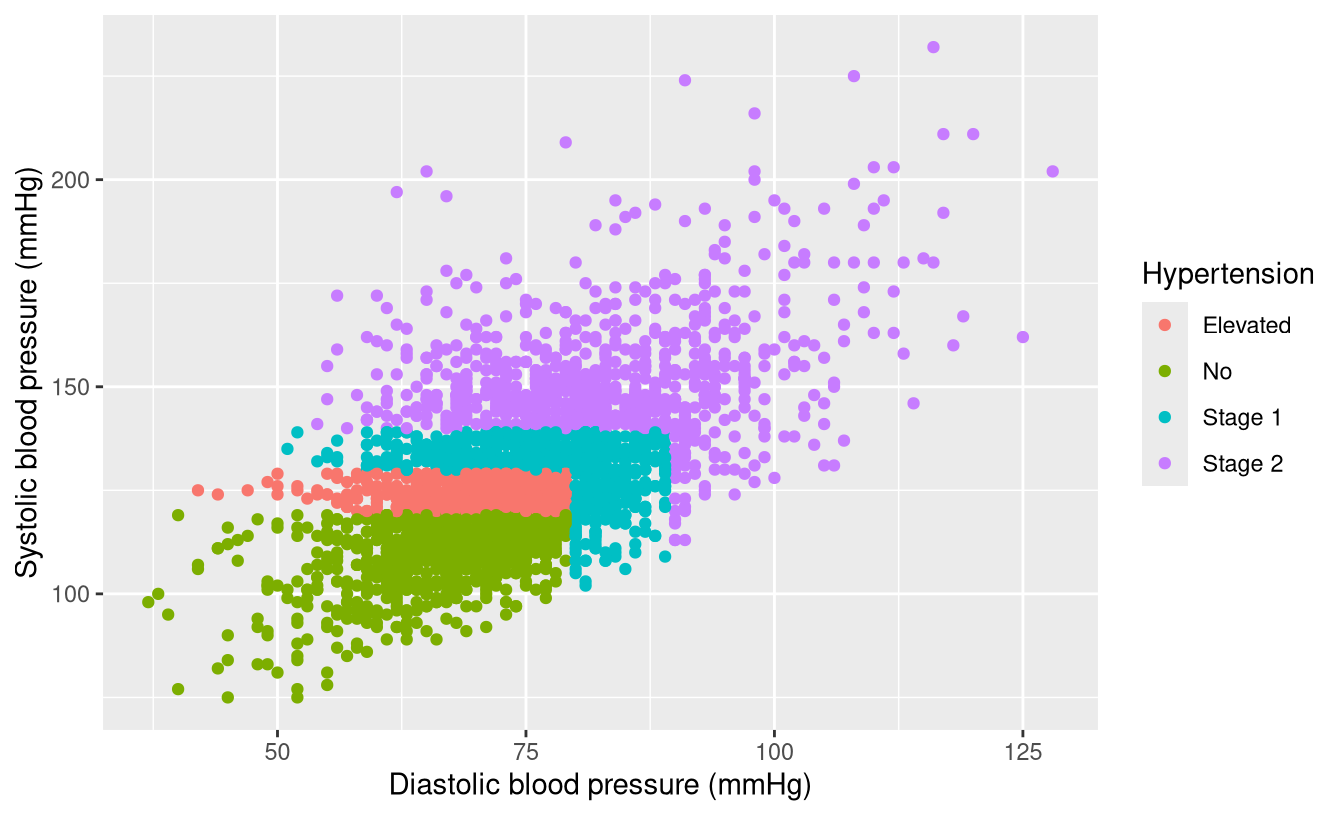
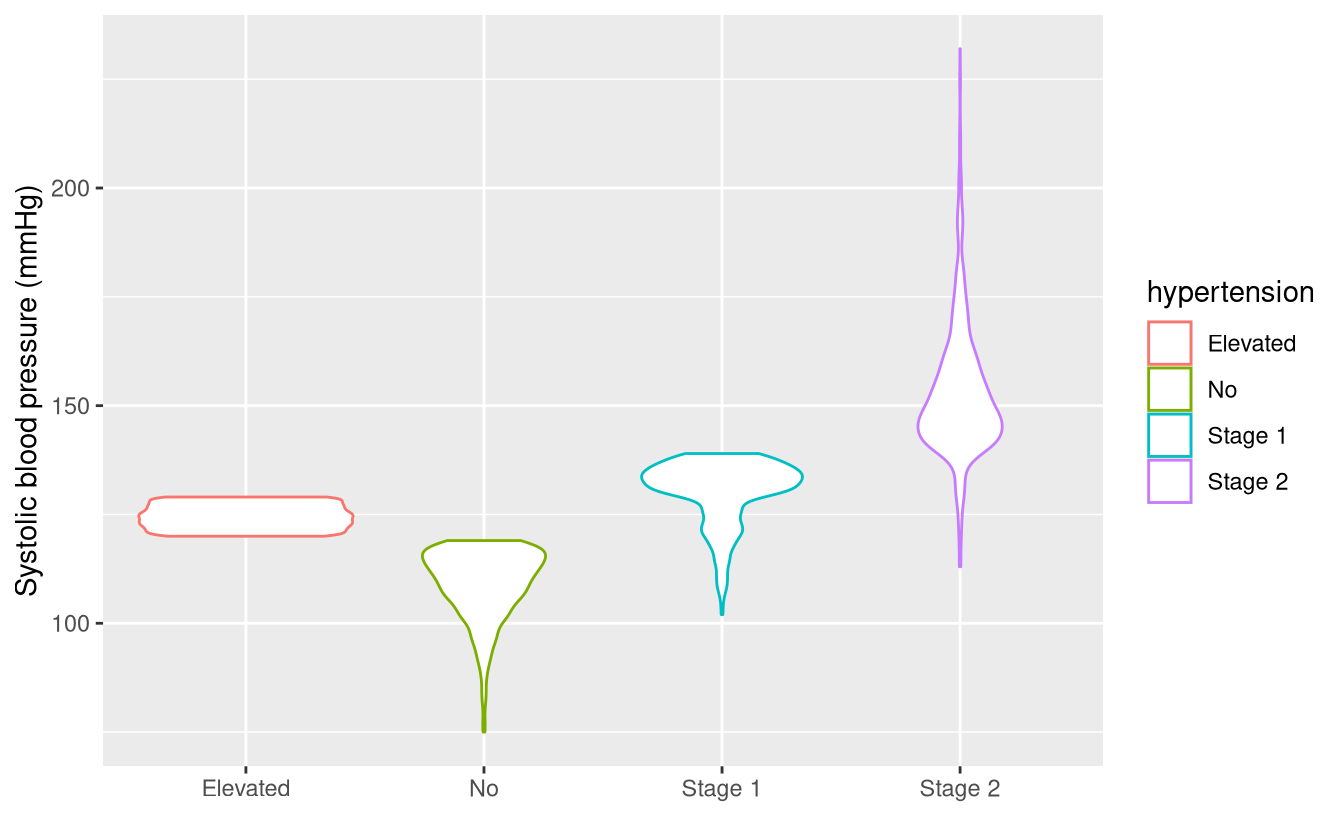
Built site for gh-pages

diff --git a/session_6/homework_6.html b/session_6/homework_6.html
@@ -242,11 +242,11 @@ pre > code.sourceCode > span > a:first-child::before { text-decoration: underlin
 <div class="cell">
 <div class="code-copy-outer-scaffold"><div class="sourceCode cell-code" id="cb4"><pre class="sourceCode r code-with-copy"><code class="sourceCode r"><span id="cb4-1"><a href="#cb4-1" aria-hidden="true" tabindex="-1"></a><span class="fu">ggplot</span>(</span>
 <span id="cb4-2"><a href="#cb4-2" aria-hidden="true" tabindex="-1"></a>   <span class="fu">subset</span>(nhanes, ridageyr <span class="sc">&gt;=</span> <span class="dv">60</span> <span class="sc">&amp;</span> <span class="sc">!</span><span class="fu">is.na</span>(hypertension)),</span>
-<span id="cb4-3"><a href="#cb4-3" aria-hidden="true" tabindex="-1"></a>   <span class="fu">aes</span>(<span class="at">x =</span> bpxodi1, <span class="at">y =</span> bpxosy1, <span class="at">color =</span> hypertension)</span>
+<span id="cb4-3"><a href="#cb4-3" aria-hidden="true" tabindex="-1"></a>   <span class="fu">aes</span>(<span class="at">x =</span> hypertension, <span class="at">y =</span> bpxosy1, <span class="at">color =</span> hypertension)</span>
 <span id="cb4-4"><a href="#cb4-4" aria-hidden="true" tabindex="-1"></a>) <span class="sc">+</span></span>
-<span id="cb4-5"><a href="#cb4-5" aria-hidden="true" tabindex="-1"></a>   <span class="fu">geom_point</span>() <span class="sc">+</span></span>
-<span id="cb4-6"><a href="#cb4-6" aria-hidden="true" tabindex="-1"></a>   <span class="fu">labs</span>(<span class="at">x =</span> <span class="st">'Diastolic blood pressure (mmHg)'</span>, <span class="at">y =</span> <span class="st">'Systolic blood pressure (mmHg)'</span>, <span class="at">color =</span></span>
-<span id="cb4-7"><a href="#cb4-7" aria-hidden="true" tabindex="-1"></a>           <span class="st">'Hypertension'</span>)</span></code></pre></div><button title="Copy to Clipboard" class="code-copy-button"><i class="bi"></i></button></div>
+<span id="cb4-5"><a href="#cb4-5" aria-hidden="true" tabindex="-1"></a>   <span class="fu">geom_violin</span>() <span class="sc">+</span></span>
+<span id="cb4-6"><a href="#cb4-6" aria-hidden="true" tabindex="-1"></a>   <span class="fu">labs</span>(<span class="at">y =</span> <span class="st">'Systolic blood pressure (mmHg)'</span>) <span class="sc">+</span></span>
+<span id="cb4-7"><a href="#cb4-7" aria-hidden="true" tabindex="-1"></a>   <span class="fu">theme</span>(<span class="at">axis.title.x =</span> <span class="fu">element_blank</span>())</span></code></pre></div><button title="Copy to Clipboard" class="code-copy-button"><i class="bi"></i></button></div>
 <div class="cell-output-display">
 <div>
 <figure class="figure">
@@ -256,6 +256,19 @@ pre > code.sourceCode > span > a:first-child::before { text-decoration: underlin
 </div>
 </div>
 </div>
+</div>
+</div>
+<div class="indent callout callout-style-default callout-note callout-titled">
+<div class="callout-header d-flex align-content-center">
+<div class="callout-icon-container">
+<i class="callout-icon"></i>
+</div>
+<div class="callout-title-container flex-fill">
+Note
+</div>
+</div>
+<div class="callout-body-container callout-body">
+<p>The last line here is optional and removes the label on the <em>x</em> axis.</p>
 </div>
 </div>
 <ol start="4" type="1">
@@ -294,7 +307,7 @@ Note
 </div>
 </div>
 <div class="indent callout callout-style-default callout-tip callout-titled" title="Solution">
-<div class="callout-header d-flex align-content-center collapsed" data-bs-toggle="collapse" data-bs-target=".callout-6-contents" aria-controls="callout-6" aria-expanded="false" aria-label="Toggle callout">
+<div class="callout-header d-flex align-content-center collapsed" data-bs-toggle="collapse" data-bs-target=".callout-7-contents" aria-controls="callout-7" aria-expanded="false" aria-label="Toggle callout">
 <div class="callout-icon-container">
 <i class="callout-icon"></i>
 </div>
@@ -303,7 +316,7 @@ Note
 </div>
 <div class="callout-btn-toggle d-inline-block border-0 py-1 ps-1 pe-0 float-end"><i class="callout-toggle"></i></div>
 </div>
-<div id="callout-6" class="callout-6-contents callout-collapse collapse">
+<div id="callout-7" class="callout-7-contents callout-collapse collapse">
 <div class="callout-body-container callout-body">
 <div class="cell">
 <div class="code-copy-outer-scaffold"><div class="sourceCode cell-code" id="cb6"><pre class="sourceCode r code-with-copy"><code class="sourceCode r"><span id="cb6-1"><a href="#cb6-1" aria-hidden="true" tabindex="-1"></a><span class="fu">table</span>(nhanes<span class="sc">$</span>ltpa_vigorous, <span class="at">useNA =</span> <span class="st">'always'</span>)</span>
@@ -322,7 +335,7 @@ Note
 <li>Use <code>table()</code> with <code>is.na()</code> to check how many people are missing a measurement of height (<code>bmxht</code>).</li>
 </ol>
 <div class="indent callout callout-style-default callout-tip callout-titled" title="Solution">
-<div class="callout-header d-flex align-content-center collapsed" data-bs-toggle="collapse" data-bs-target=".callout-7-contents" aria-controls="callout-7" aria-expanded="false" aria-label="Toggle callout">
+<div class="callout-header d-flex align-content-center collapsed" data-bs-toggle="collapse" data-bs-target=".callout-8-contents" aria-controls="callout-8" aria-expanded="false" aria-label="Toggle callout">
 <div class="callout-icon-container">
 <i class="callout-icon"></i>
 </div>
@@ -331,7 +344,7 @@ Note
 </div>
 <div class="callout-btn-toggle d-inline-block border-0 py-1 ps-1 pe-0 float-end"><i class="callout-toggle"></i></div>
 </div>
-<div id="callout-7" class="callout-7-contents callout-collapse collapse">
+<div id="callout-8" class="callout-8-contents callout-collapse collapse">
 <div class="callout-body-container callout-body">
 <div class="cell">
 <div class="code-copy-outer-scaffold"><div class="sourceCode cell-code" id="cb7"><pre class="sourceCode r code-with-copy"><code class="sourceCode r"><span id="cb7-1"><a href="#cb7-1" aria-hidden="true" tabindex="-1"></a><span class="fu">table</span>(<span class="fu">is.na</span>(nhanes<span class="sc">$</span>bmxht))</span>
@@ -346,7 +359,7 @@ Note
 <li>Use <code>prop.table()</code>, <code>table()</code>, and <code>is.na()</code> to examine whether missingness of systolic blood pressure (<code>bpxosy1</code>) differs by smoking status (<code>smoking</code>). In other words: what percent of smokers, and what percent of non-smokers, are missing a measurement of systolic blood pressure?</li>
 </ol>
 <div class="indent callout callout-style-default callout-tip callout-titled" title="Solution">
-<div class="callout-header d-flex align-content-center collapsed" data-bs-toggle="collapse" data-bs-target=".callout-8-contents" aria-controls="callout-8" aria-expanded="false" aria-label="Toggle callout">
+<div class="callout-header d-flex align-content-center collapsed" data-bs-toggle="collapse" data-bs-target=".callout-9-contents" aria-controls="callout-9" aria-expanded="false" aria-label="Toggle callout">
 <div class="callout-icon-container">
 <i class="callout-icon"></i>
 </div>
@@ -355,7 +368,7 @@ Note
 </div>
 <div class="callout-btn-toggle d-inline-block border-0 py-1 ps-1 pe-0 float-end"><i class="callout-toggle"></i></div>
 </div>
-<div id="callout-8" class="callout-8-contents callout-collapse collapse">
+<div id="callout-9" class="callout-9-contents callout-collapse collapse">
 <div class="callout-body-container callout-body">
 <div class="cell">
 <div class="code-copy-outer-scaffold"><div class="sourceCode cell-code" id="cb8"><pre class="sourceCode r code-with-copy"><code class="sourceCode r"><span id="cb8-1"><a href="#cb8-1" aria-hidden="true" tabindex="-1"></a><span class="fu">prop.table</span>(<span class="fu">table</span>(nhanes<span class="sc">$</span>smoking, <span class="fu">is.na</span>(nhanes<span class="sc">$</span>bpxosy1))) <span class="sc">*</span> <span class="dv">100</span></span>
@@ -375,7 +388,7 @@ Note
 <p>Use <code>subset()</code> to list measurements of systolic blood pressure (<code>bpxosy1</code>) among people who have Stage 2 hypertension (<code>hypertension</code>).</p></li>
 </ol>
 <div class="indent callout callout-style-default callout-tip callout-titled" title="Solution">
-<div class="callout-header d-flex align-content-center collapsed" data-bs-toggle="collapse" data-bs-target=".callout-9-contents" aria-controls="callout-9" aria-expanded="false" aria-label="Toggle callout">
+<div class="callout-header d-flex align-content-center collapsed" data-bs-toggle="collapse" data-bs-target=".callout-10-contents" aria-controls="callout-10" aria-expanded="false" aria-label="Toggle callout">
 <div class="callout-icon-container">
 <i class="callout-icon"></i>
 </div>
@@ -384,7 +397,7 @@ Note
 </div>
 <div class="callout-btn-toggle d-inline-block border-0 py-1 ps-1 pe-0 float-end"><i class="callout-toggle"></i></div>
 </div>
-<div id="callout-9" class="callout-9-contents callout-collapse collapse">
+<div id="callout-10" class="callout-10-contents callout-collapse collapse">
 <div class="callout-body-container callout-body">
 <div class="cell">
 <div class="code-copy-outer-scaffold"><div class="sourceCode cell-code" id="cb10"><pre class="sourceCode r code-with-copy"><code class="sourceCode r"><span id="cb10-1"><a href="#cb10-1" aria-hidden="true" tabindex="-1"></a><span class="fu">subset</span>(nhanes<span class="sc">$</span>bpxosy1, nhanes<span class="sc">$</span>hypertension <span class="sc">==</span> <span class="st">'Stage 2'</span>)</span></code></pre></div><button title="Copy to Clipboard" class="code-copy-button"><i class="bi"></i></button></div>
